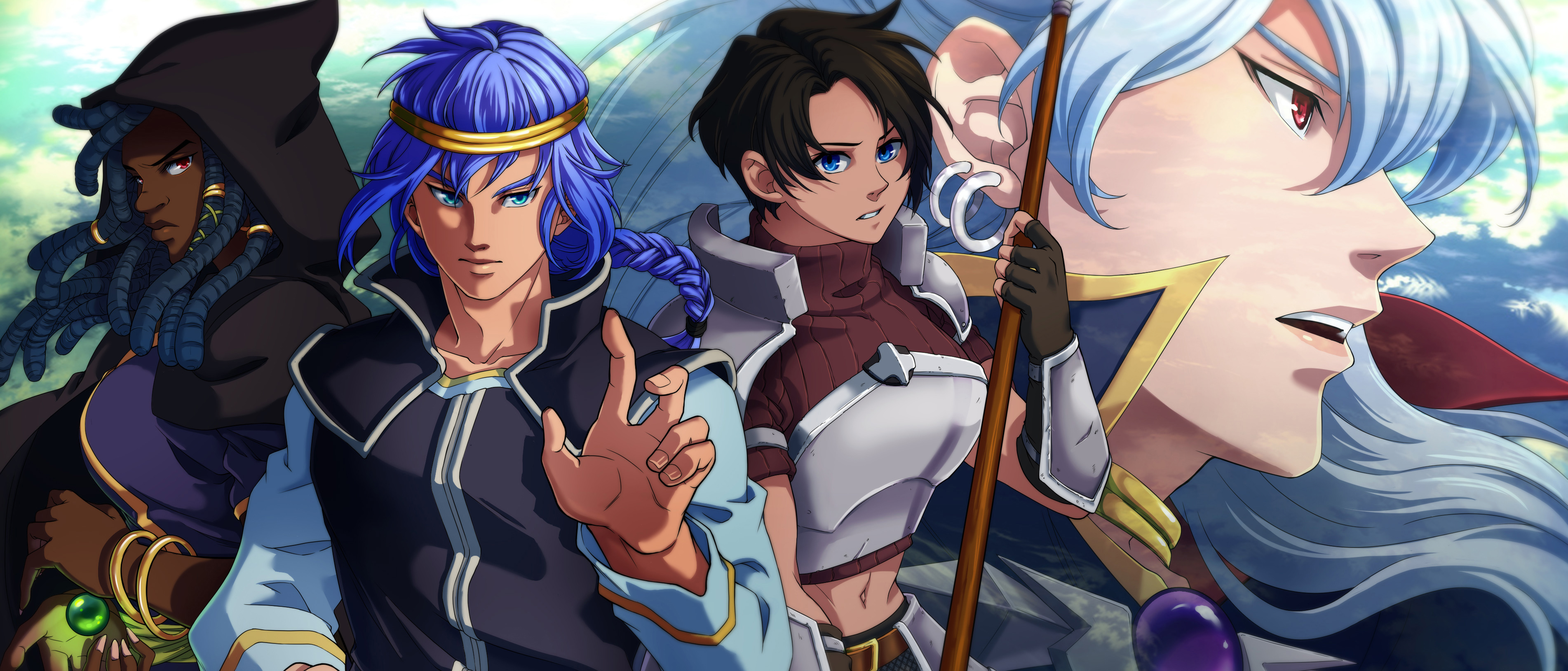
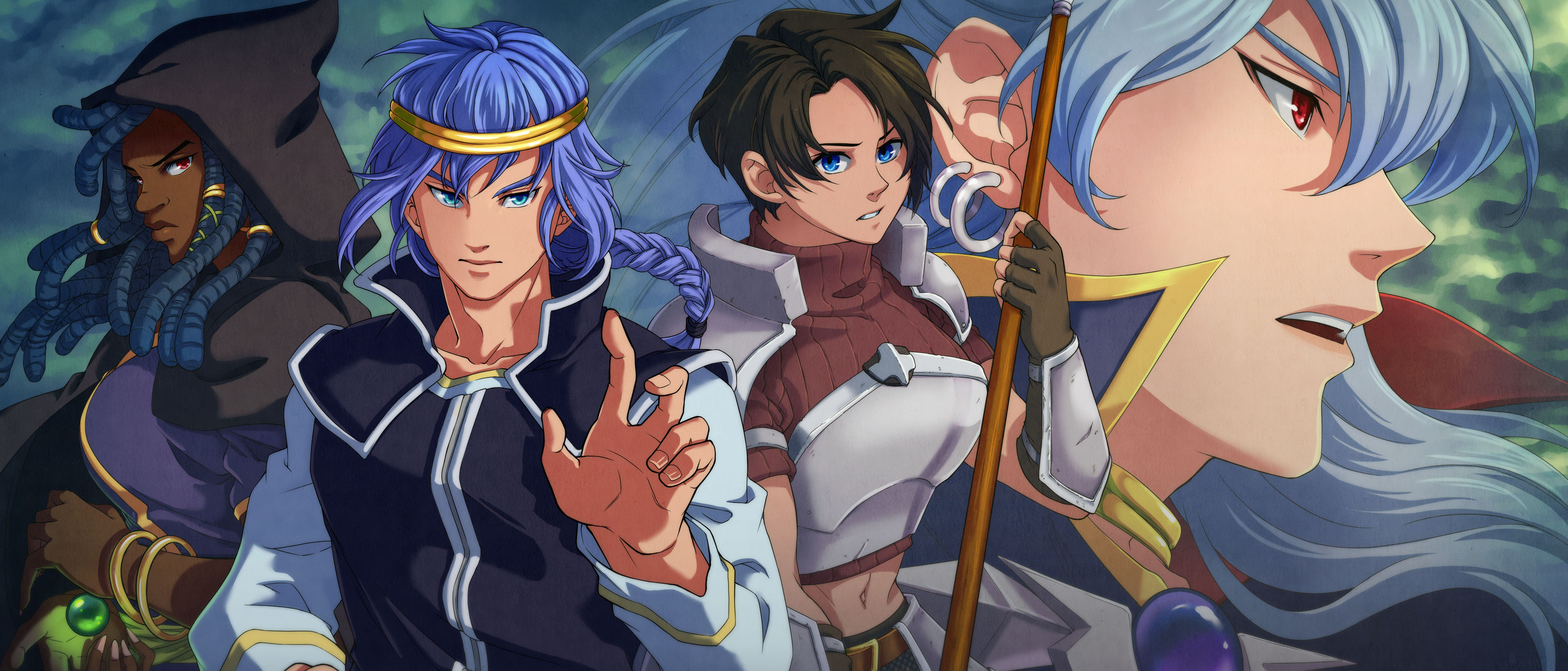
update legends of astravia game page

diff --git a/collections/_games/legends_of_astravia.md b/collections/_games/legends_of_astravia.md
@@ -3,7 +3,7 @@ layout: game
 title: Legends of Astravia
 alt_title: ''
 permalink: /games/legends-of-astravia
-header_image: assets/loa/21-9_banner-Logo_smaller.jpg
+header_image: assets/loa/21-9_banner-Logo_RMN.png
 ---
 {% assign game = site.data.games.legends-of-astravia %}
 
@@ -21,22 +21,40 @@ Legends of Astravia’s epic story will be delivered in two installments. The fi
 # Gallery
 {% include image_gallery.html gallery=site.data.galleries.loa-game-page %}
 
-# Features
-- **Turnless battles that encourage quick—but strategic—decision making.** In this fluid system without “turns”, you interact with enemy and ally actions in real time. 
-- **A varied cast of playable characters,** each with a unique combat style and abilities to help you arrange the perfect team.
-- **Vast, explorable overworld filled with dungeons, caves, and towns.** There are challenging puzzles to solve and treasures to find in every corner of Astravia.
-- **Avoidable enemy encounters.** Choose your own path instead of being at the mercy of unexpected, randomized battles.
-- **Modular skill system that allows you to exchange abilities between characters,** so you never feel restricted to a particular "build”.
-- **An engaging story supported by varied side-quests.** Alongside a fulfilling main quest, meet characters all over the world with their own stories and special rewards.
+# About
+In this retro-style 2D RPG with modernized game mechanics, journey across Astravia as the wandering mystician Oliver and meet new companions, uncover secrets better left unknown, and stop a villainous trio’s plot to steal the powerful Astri and cause world destruction. 
+
+Influenced by 90s and early 2000s-era JRPGs like Golden Sun and Grandia, the game features a dynamic battle system and a world rich with exploration and puzzles. 
+
+![Dynamic Battles]({{ '/assets/loa/Description_Battle.png' | relative_url }})
+
+A fresh spin on "Active Time Battle" (ATB), Legends of Astravia's turnless battle system encourages quick—but strategic—decision making. In this fluid system without “turns”, interact with enemy and ally actions in real time and feel the excitement of outracing your opponents with powerful magic and abilities. 
+
+![Engaging Exploration]({{ '/assets/loa/Description_Explore.png' | relative_url }})
+
+Vast, explorable overworld designed with care. Intricate dungeons filled with puzzles and traps are contrasted with lively towns and their welcoming NPCs and side-quests. And while the main story's obstacles are balanced and fair, there are plenty of optional areas with difficult and rewarding challenges to discover. 
+
+![Charming Characters]({{ '/assets/loa/Description_Characters.png' | relative_url }})
+
+A varied cast where each character's unique personality and traits shine through. In this character-driven story, scenes with dialogue are written to make you feel like you're in the company of your companions as they react to the changing world around them. 
+
+## Features
+- Approachable RPG with 10-20 hours of genuine, unpadded content. 
+- Retro 16-bit graphics with a modernized interface and gameplay—all the nostalgia without the clunky mechanics. 
+- Explorable overworld that features twisting dungeons, rewarding puzzles, treasure-filled caves and more. 
+- "Turnless" battles where you feel the constant rhythm of combat as you choose your characters' actions. 
+- A diverse cast of charming characters each with their own personalities and abilities. 
+- Essence: A modular skill system that allows you to exchange abilities between characters and grow without the burden of skill trees or assigning stat points. 
+- Avoidable, on-map enemy encounters and grid-less 8-directional movement. 
+- Various side-quests, each with meaning and purpose that complement and build on the world's lore. 
+- Accessibility options to tune your experience, such as battle difficulty and speed modulation, visual adjustments, and control rebinding. 
 
 # Story
-Oliver is a mystician—those in Astravia who are gifted with a natural talent to cast magic. After waking up in Mordin Forest with nothing but his shirt and circlet, he was assailed by a group of corrupt knights and rescued by a swordsman from the local village. As he recovered, he became quickly accustomed to the villagers' simple lifestyle regardless of his unclear past. 
+Oliver is a *mystician*—those in Astravia who are gifted with a natural talent to cast magic. Awakening deep in Mordin Forest with nothing but his shirt and circlet, Oliver finds himself at a loss as to how he ended up there. To make matters worse, the corrupt knights of the area seem all but welcoming towards mysticians. 
 
-This calm did not last long, however, as a fated meeting with the enigmatic Azel and an encounter with other, villainous mysticians forced Oliver to realize that he is involved in something greater...and that he and Azel are somehow destined to cross paths. He sets off towards Anatas to learn more about his origins, meeting new companions—and enemies—along the way. 
+After a swift rescue by a kindly swordsman, he takes refuge along the outskirts of Mordin Village. There, questions about his past and a fated meeting with the enigmatic Azel leads Oliver on a quest across the world to recover his memory...all while the “Astri Hunters” plan to reawaken the Great Cataclysm for their own gain. 
 
-However, for each step towards discovering the truth of his own past, Oliver gets further entangled in Astravia's dark and mysterious history... 
-
-<br>
+Journey as a wandering mystician and meet new companions, uncover secrets better left unknown, and stop a villainous trio’s plot to steal the powerful Astri and cause world destruction...for the fate of Astravia! 
 
 ---
 
@@ -50,10 +68,6 @@ However, for each step towards discovering the truth of his own past, Oliver get
 |:---:|:---:|:---:|
 | {{ game.developer }} | {{ game.languages | join: ",&nbsp;&nbsp;" }} | {{ game.rating }} |
 
-<br>
-
 ---
-
-<br>
 
 *[Click here](/games/loa/credits) to view the game's credits, including collaborators and assets.*
